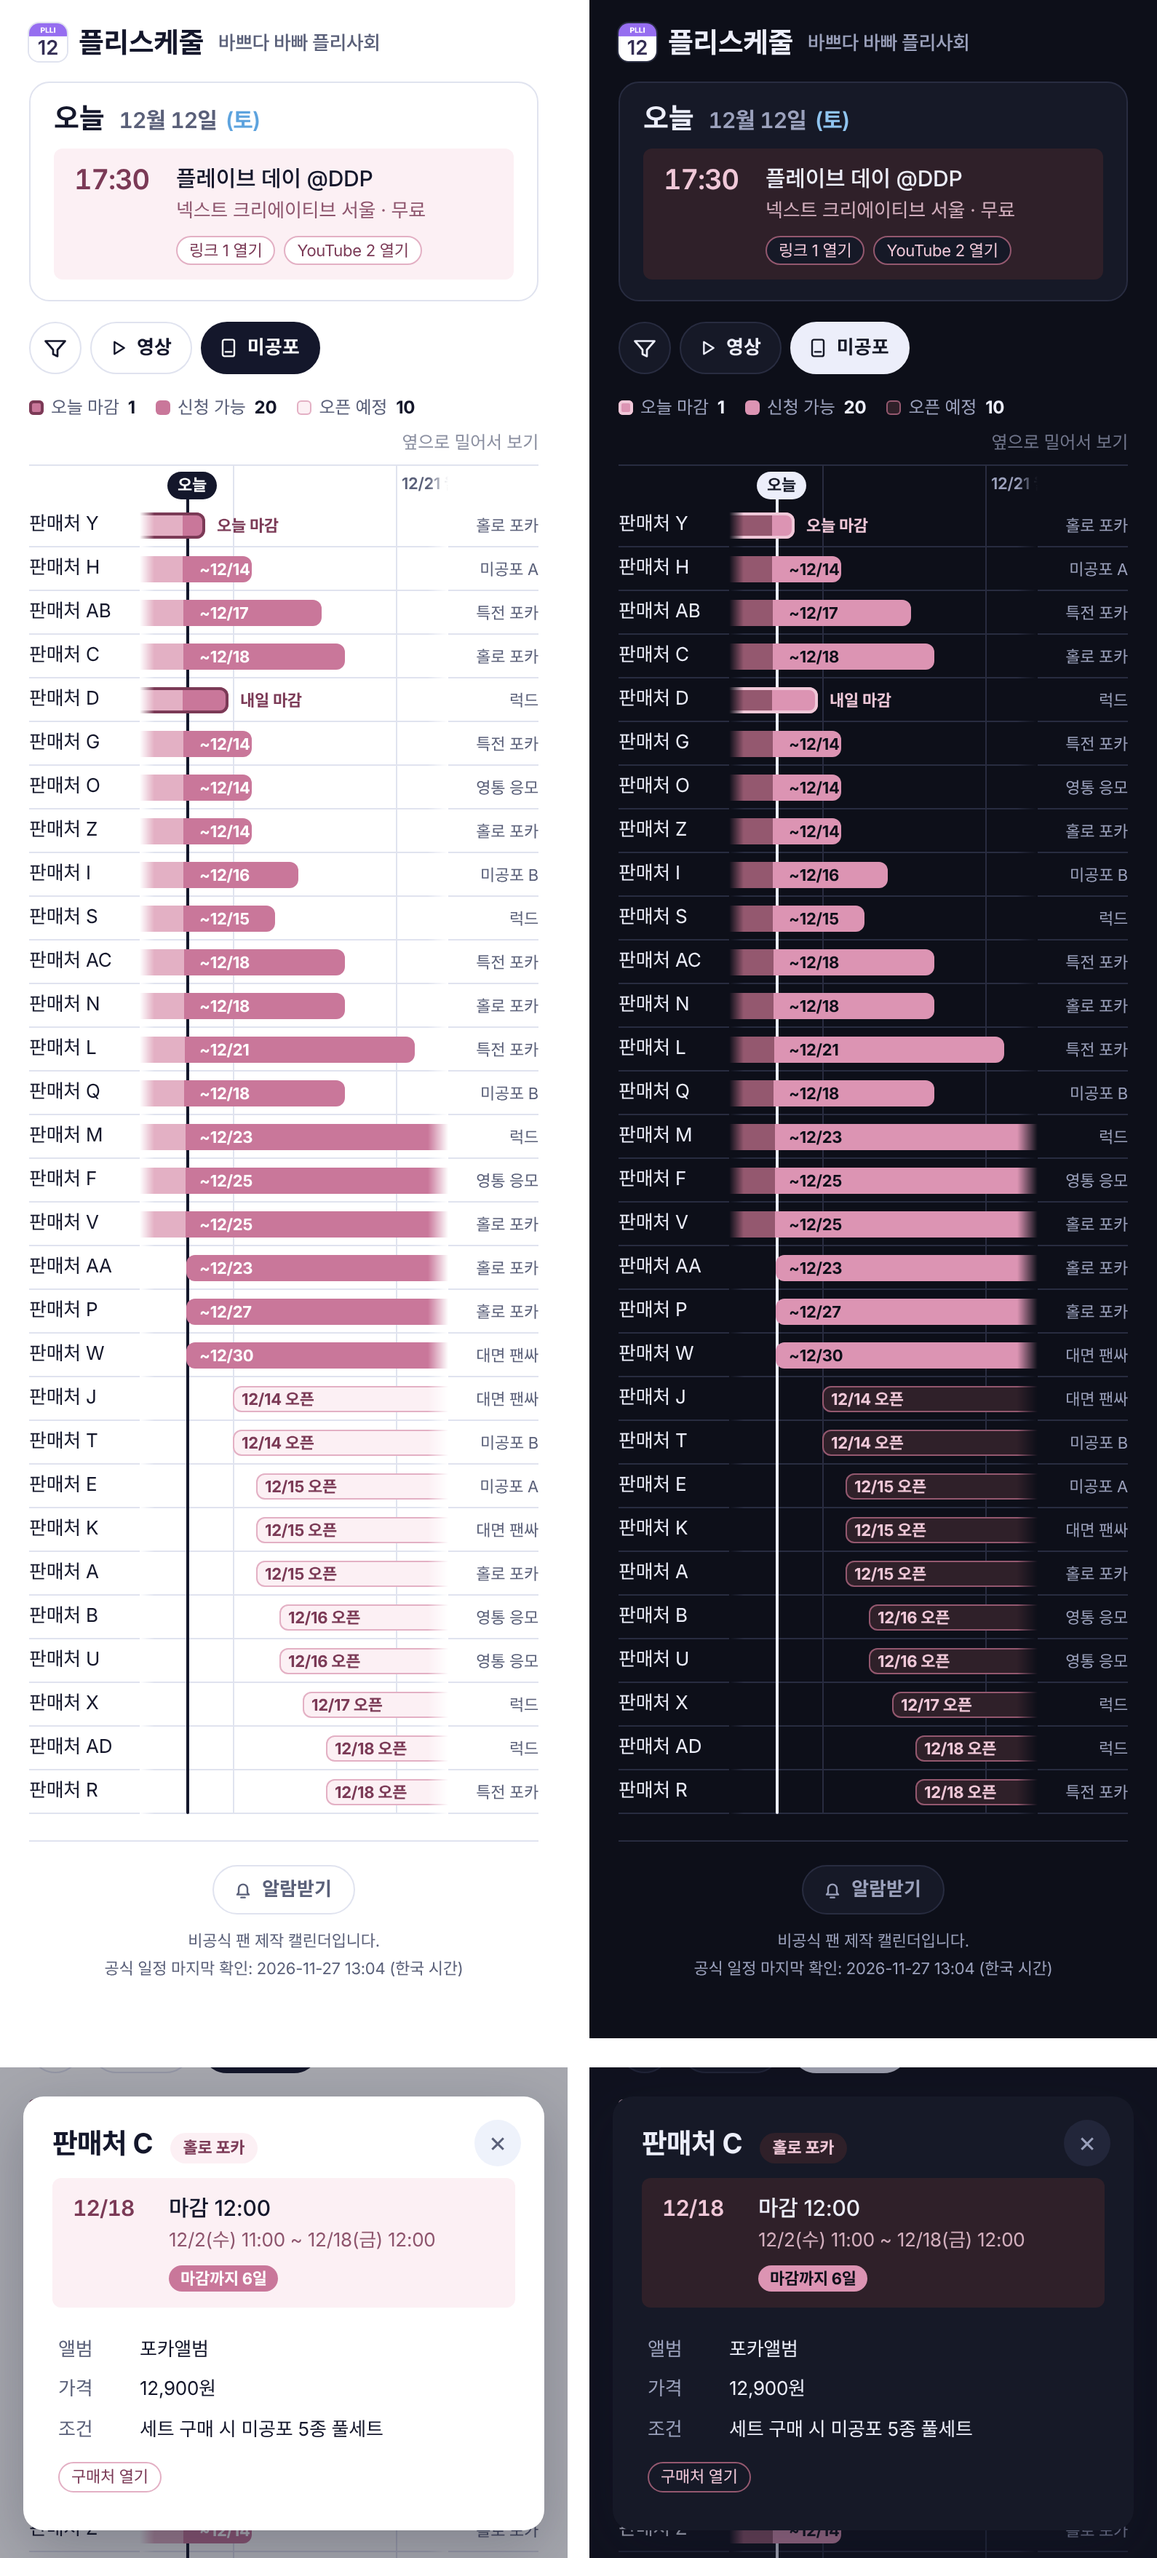
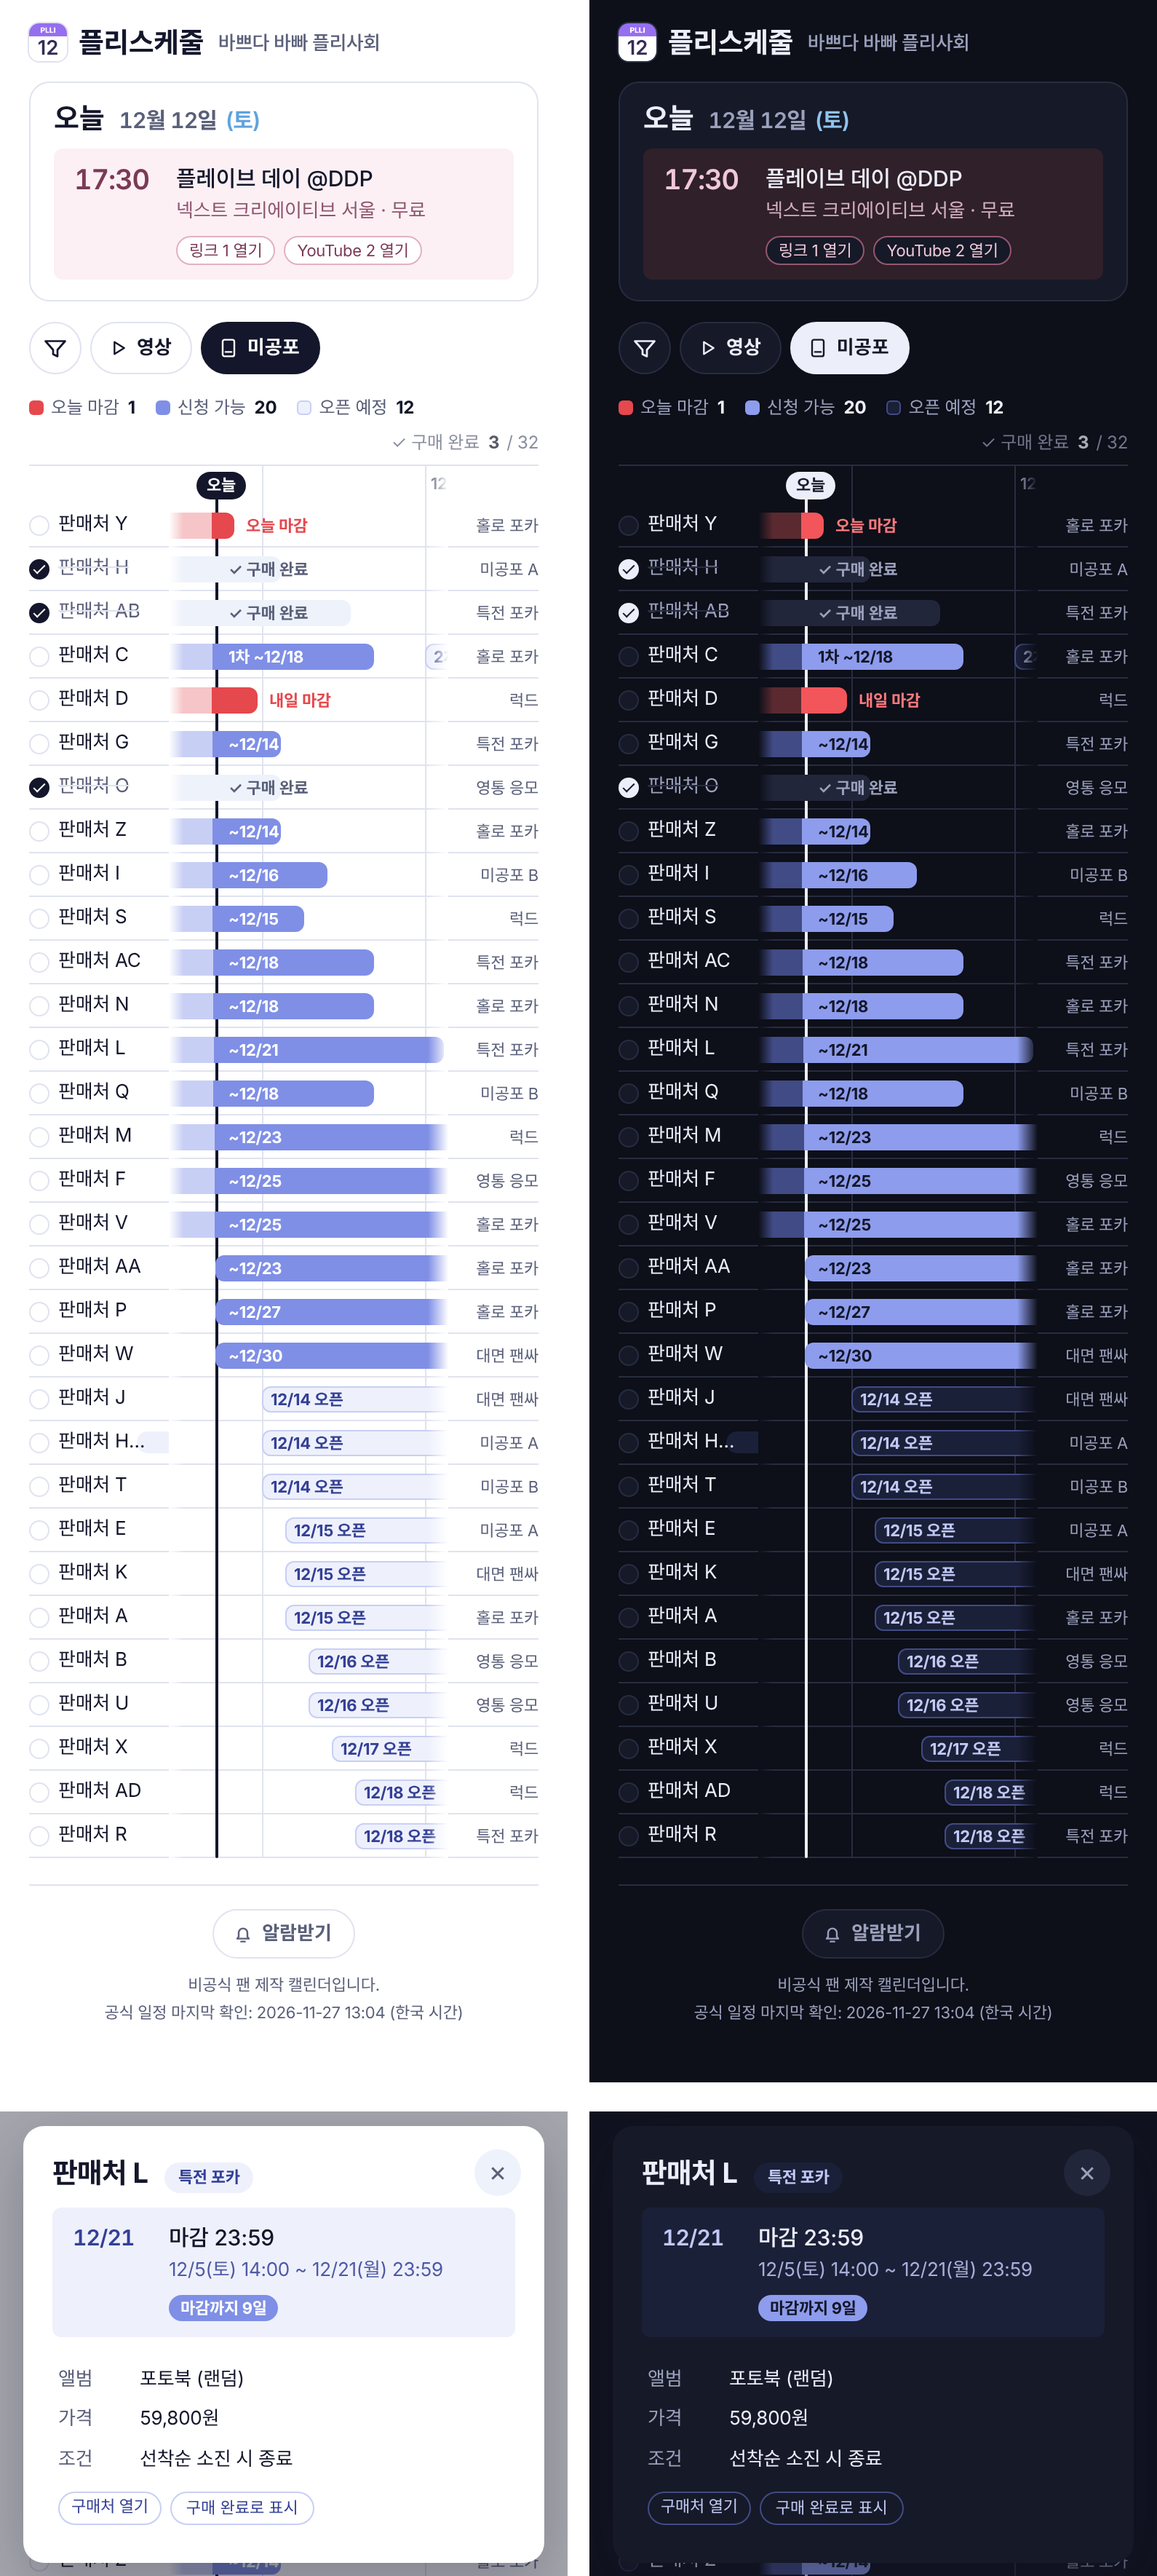
미공포 시안: 인디고 색으로 결정 (drafts/)
Claude-Session: https://claude.ai/code/session_01Epb79aCCecSjd6zD5n6eH4

diff --git a/drafts/mipo-v6-inject.js b/drafts/mipo-v6-inject.js
@@ -2,7 +2,7 @@
 (function(){
 var D=[{"name": "판매처 A", "type": "홀로 포카", "s": 15, "e": 33, "album": "디지팩 세트", "price": 62000, "rule": "세트 구매 시 미공포 5종 풀세트", "st": "14:00", "et": "12:00"}, {"name": "판매처 B", "type": "영통 응모", "s": 16, "e": 28, "album": "디지팩 세트", "price": 18900, "rule": "세트 구매 시 미공포 5종 풀세트", "st": "11:00", "et": "12:00"}, {"name": "판매처 C", "type": "홀로 포카", "s": 2, "e": 18, "album": "포카앨범", "price": 12900, "rule": "세트 구매 시 미공포 5종 풀세트", "st": "11:00", "et": "12:00"}, {"name": "판매처 D", "type": "럭드", "s": 3, "e": 13, "album": "포토북 세트", "price": 17500, "rule": "앨범 1장당 미공포 1장 (랜덤)", "st": "20:00", "et": "18:00"}, {"name": "판매처 E", "type": "미공포 A", "s": 15, "e": 28, "album": "디지팩 (랜덤)", "price": 59800, "rule": "앨범 1장당 미공포 1장 (랜덤)", "st": "11:00", "et": "18:00"}, {"name": "판매처 F", "type": "영통 응모", "s": 9, "e": 25, "album": "디지팩 (랜덤)", "price": 18900, "rule": "세트 구매 시 미공포 5종 풀세트", "st": "18:00", "et": "23:59"}, {"name": "판매처 G", "type": "특전 포카", "s": 3, "e": 14, "album": "포토북 (랜덤)", "price": 18900, "rule": "선착순 소진 시 종료", "st": "11:00", "et": "23:59"}, {"name": "판매처 H", "type": "미공포 A", "s": 1, "e": 14, "album": "포토북 (랜덤)", "price": 59800, "rule": "선착순 소진 시 종료", "st": "20:00", "et": "18:00"}, {"name": "판매처 I", "type": "미공포 B", "s": 3, "e": 16, "album": "디지팩 (랜덤)", "price": 16800, "rule": "1장당 응모권 1장", "st": "18:00", "et": "23:59"}, {"name": "판매처 J", "type": "대면 팬싸", "s": 14, "e": 25, "album": "포토북 세트", "price": 12900, "rule": "앨범 1장당 미공포 1장 (랜덤)", "st": "11:00", "et": "23:59"}, {"name": "판매처 K", "type": "대면 팬싸", "s": 15, "e": 32, "album": "포카앨범", "price": 17500, "rule": "선착순 소진 시 종료", "st": "14:00", "et": "12:00"}, {"name": "판매처 L", "type": "특전 포카", "s": 5, "e": 21, "album": "포토북 (랜덤)", "price": 59800, "rule": "선착순 소진 시 종료", "st": "14:00", "et": "23:59"}, {"name": "판매처 M", "type": "럭드", "s": 9, "e": 23, "album": "포토북 세트", "price": 17500, "rule": "선착순 소진 시 종료", "st": "11:00", "et": "23:59"}, {"name": "판매처 N", "type": "홀로 포카", "s": 5, "e": 18, "album": "디지팩 (랜덤)", "price": 16800, "rule": "1장당 응모권 1장", "st": "18:00", "et": "18:00"}, {"name": "판매처 O", "type": "영통 응모", "s": 3, "e": 14, "album": "포토북 세트", "price": 62000, "rule": "세트 구매 시 미공포 5종 풀세트", "st": "11:00", "et": "12:00"}, {"name": "판매처 P", "type": "홀로 포카", "s": 12, "e": 27, "album": "포토북 세트", "price": 62000, "rule": "선착순 소진 시 종료", "st": "14:00", "et": "18:00"}, {"name": "판매처 Q", "type": "미공포 B", "s": 6, "e": 18, "album": "포토북 세트", "price": 62000, "rule": "세트 구매 시 미공포 5종 풀세트", "st": "14:00", "et": "23:59"}, {"name": "판매처 R", "type": "특전 포카", "s": 18, "e": 31, "album": "디지팩 세트", "price": 62000, "rule": "앨범 1장당 미공포 1장 (랜덤)", "st": "20:00", "et": "23:59"}, {"name": "판매처 S", "type": "럭드", "s": 4, "e": 15, "album": "포카앨범", "price": 18900, "rule": "세트 구매 시 미공포 5종 풀세트", "st": "20:00", "et": "18:00"}, {"name": "판매처 T", "type": "미공포 B", "s": 14, "e": 31, "album": "포카앨범", "price": 17500, "rule": "앨범 1장당 미공포 1장 (랜덤)", "st": "14:00", "et": "23:59"}, {"name": "판매처 U", "type": "영통 응모", "s": 16, "e": 34, "album": "디지팩 (랜덤)", "price": 17500, "rule": "세트 구매 시 미공포 5종 풀세트", "st": "11:00", "et": "23:59"}, {"name": "판매처 V", "type": "홀로 포카", "s": 9, "e": 25, "album": "포토북 세트", "price": 16800, "rule": "앨범 1장당 미공포 1장 (랜덤)", "st": "14:00", "et": "18:00"}, {"name": "판매처 W", "type": "대면 팬싸", "s": 12, "e": 30, "album": "포토북 (랜덤)", "price": 18900, "rule": "세트 구매 시 미공포 5종 풀세트", "st": "20:00", "et": "18:00"}, {"name": "판매처 X", "type": "럭드", "s": 17, "e": 29, "album": "포토북 (랜덤)", "price": 59800, "rule": "1장당 응모권 1장", "st": "18:00", "et": "23:59"}, {"name": "판매처 Y", "type": "홀로 포카", "s": 1, "e": 12, "album": "포토북 (랜덤)", "price": 12900, "rule": "1장당 응모권 1장", "st": "18:00", "et": "23:59"}, {"name": "판매처 Z", "type": "홀로 포카", "s": 3, "e": 14, "album": "포카앨범", "price": 18900, "rule": "앨범 1장당 미공포 1장 (랜덤)", "st": "14:00", "et": "18:00"}, {"name": "판매처 AA", "type": "홀로 포카", "s": 12, "e": 23, "album": "포토북 (랜덤)", "price": 59800, "rule": "앨범 1장당 미공포 1장 (랜덤)", "st": "20:00", "et": "12:00"}, {"name": "판매처 AB", "type": "특전 포카", "s": 1, "e": 17, "album": "포카앨범", "price": 16800, "rule": "앨범 1장당 미공포 1장 (랜덤)", "st": "11:00", "et": "23:59"}, {"name": "판매처 AC", "type": "특전 포카", "s": 4, "e": 18, "album": "디지팩 (랜덤)", "price": 59800, "rule": "선착순 소진 시 종료", "st": "20:00", "et": "18:00"}, {"name": "판매처 AD", "type": "럭드", "s": 18, "e": 29, "album": "디지팩 (랜덤)", "price": 62000, "rule": "앨범 1장당 미공포 1장 (랜덤)", "st": "20:00", "et": "23:59"}], TODAY=12, DAY=16, DOW=["일","월","화","수","목","금","토"];
 function dt(d){return new Date(2026,11,d)} function lab(d){var x=dt(d);return (x.getMonth()+1)+"/"+x.getDate()}
-var st=document.createElement('style');st.textContent="\n.vidbtn.mipo[aria-pressed=\"true\"]{background:var(--ink);border-color:var(--ink);color:var(--surface)}\n.mp{margin-top:4px}\n.mp .sum{display:flex;flex-wrap:wrap;gap:6px 14px;font-size:12px;color:var(--muted);margin:0 0 6px}\n.mp .sum span{display:inline-flex;align-items:center;gap:5px}\n.mp .sum i{width:10px;height:10px;border-radius:3px;display:inline-block}\n.mp .sum b{color:var(--ink);font-weight:700;margin-left:1px}\n.mp .sum .hint{margin-left:auto;color:var(--muted);opacity:.7}\n.mpw{display:grid;grid-template-columns:76px minmax(0,1fr) 62px;border-top:1px solid var(--line)}\n.mpc{padding-top:26px}\n.mpc div{height:30px;display:flex;align-items:center;font-size:13px;white-space:nowrap;overflow:hidden;text-overflow:ellipsis;border-bottom:1px solid var(--line);cursor:pointer}\n.mpc.ty div{justify-content:flex-end;font-size:11px;color:var(--muted)}\n.mps{overflow-x:auto;overflow-y:hidden;scrollbar-width:none;position:relative;-webkit-mask-image:linear-gradient(90deg,transparent 0,#000 10px,#000 calc(100% - 14px),transparent 100%);mask-image:linear-gradient(90deg,transparent 0,#000 10px,#000 calc(100% - 14px),transparent 100%)}\n.mps::-webkit-scrollbar{display:none}\n.mpi{position:relative}\n.mpa{height:26px;position:relative}\n.mpa span{position:absolute;bottom:6px;font-size:11px;font-weight:600;color:var(--muted);white-space:nowrap;padding-left:4px}\n.mpr{height:30px;position:relative;border-bottom:1px solid var(--line);cursor:pointer}\n.mpb{position:absolute;top:6px;height:18px;border-radius:6px;z-index:2}\n.mpb.on{background:linear-gradient(90deg,var(--f-bar) 0 var(--cut),var(--f) var(--cut) 100%)}\n.mpb.hot{background:linear-gradient(90deg,var(--f-bar) 0 var(--cut),var(--f) var(--cut) 100%);box-shadow:inset 0 0 0 2px var(--f-fg)}\n.mpb.soon{background:var(--f-bg);box-shadow:inset 0 0 0 1px var(--f-bar)}\n.mpb b{position:absolute;font-size:11px;font-weight:700;white-space:nowrap;padding-left:6px;line-height:18px}\n.mpb.on b,.mpb.hot b{color:var(--f-ink)}.mpb.soon b{color:var(--f-fg)}\n.mpk{position:absolute;top:0;bottom:0;width:1px;background:var(--line)}\n.mpt{position:absolute;top:4px;bottom:0;width:2px;background:var(--ink);z-index:1;border-radius:1px}\n.mpt b{position:absolute;top:0;left:-13px;font-size:11px;font-weight:700;color:var(--surface);background:var(--ink);border-radius:999px;padding:1px 7px;white-space:nowrap}\n.mp .more{margin-top:10px;font-size:12px;color:var(--muted)}\n.mptag{display:inline-block;margin-left:6px;font-size:11px;font-weight:700;color:var(--f-fg);background:var(--f-bg);border-radius:999px;padding:2px 9px;vertical-align:3px}\n.mpinfo{list-style:none;padding:12px 4px 2px}\n.mpinfo dl{display:grid;grid-template-columns:44px 1fr;gap:8px 12px;margin:0 0 12px;font-size:13px}\n.mpinfo dt{color:var(--muted)}\n.mpinfo dd{margin:0;color:var(--ink)}\n.mpv{margin-left:5px;font-size:10.5px;font-weight:700;color:var(--f-fg);background:var(--f-bg);border-radius:999px;padding:1px 6px}\n.mp,#daydlg{--f:#a592ec;--f-ink:#ffffff;--f-bg:#f4f1fd;--f-bar:#d6cdf7;--f-fg:#5a479f}\n@media (prefers-color-scheme:dark){.mp,#daydlg{--f:#a796e6;--f-ink:#17142a;--f-bg:#221d3a;--f-bar:#4f447f;--f-fg:#cbc0f2}}\n.mpw{grid-template-columns:96px minmax(0,1fr) 62px}\n.mpc div{gap:7px}\n.mpck{flex:0 0 auto;width:18px;height:18px;border-radius:50%;border:1.5px solid var(--line);background:var(--surface);padding:0;cursor:pointer;position:relative}\n.mpc .got .mpck{background:var(--f);border-color:var(--f)}\n.mpc .got .mpck::after{content:\"\";position:absolute;left:5px;top:2px;width:4px;height:8px;border:solid var(--f-ink);border-width:0 2px 2px 0;transform:rotate(45deg)}\n.mpnm{overflow:hidden;text-overflow:ellipsis}\n.mpc .got .mpnm{color:var(--muted)}\n.mpr.got .mpb{opacity:.35}\n.mpc.ty .got{opacity:.5}\n.mpbuy{font:inherit;font-size:11px;border:1px solid var(--f-bar);background:var(--surface);color:var(--f-fg);border-radius:999px;padding:2px 10px;cursor:pointer}\n.mpbuy.on{background:var(--f);border-color:var(--f);color:var(--f-ink);font-weight:700}\n.mp .sum .hint b{color:var(--ink)}\n.mpdd{display:inline-block;font-size:11px;font-weight:700;color:var(--f-ink);background:var(--f);border-radius:999px;padding:1px 8px;margin-top:6px}\n";document.head.appendChild(st);
+var st=document.createElement('style');st.textContent="\n.vidbtn.mipo[aria-pressed=\"true\"]{background:var(--ink);border-color:var(--ink);color:var(--surface)}\n.mp{margin-top:4px}\n.mp .sum{display:flex;flex-wrap:wrap;gap:6px 14px;font-size:12px;color:var(--muted);margin:0 0 6px}\n.mp .sum span{display:inline-flex;align-items:center;gap:5px}\n.mp .sum i{width:10px;height:10px;border-radius:3px;display:inline-block}\n.mp .sum b{color:var(--ink);font-weight:700;margin-left:1px}\n.mp .sum .hint{margin-left:auto;color:var(--muted);opacity:.7}\n.mpw{display:grid;grid-template-columns:76px minmax(0,1fr) 62px;border-top:1px solid var(--line)}\n.mpc{padding-top:26px}\n.mpc div{height:30px;display:flex;align-items:center;font-size:13px;white-space:nowrap;overflow:hidden;text-overflow:ellipsis;border-bottom:1px solid var(--line);cursor:pointer}\n.mpc.ty div{justify-content:flex-end;font-size:11px;color:var(--muted)}\n.mps{overflow-x:auto;overflow-y:hidden;scrollbar-width:none;position:relative;-webkit-mask-image:linear-gradient(90deg,transparent 0,#000 10px,#000 calc(100% - 14px),transparent 100%);mask-image:linear-gradient(90deg,transparent 0,#000 10px,#000 calc(100% - 14px),transparent 100%)}\n.mps::-webkit-scrollbar{display:none}\n.mpi{position:relative}\n.mpa{height:26px;position:relative}\n.mpa span{position:absolute;bottom:6px;font-size:11px;font-weight:600;color:var(--muted);white-space:nowrap;padding-left:4px}\n.mpr{height:30px;position:relative;border-bottom:1px solid var(--line);cursor:pointer}\n.mpb{position:absolute;top:6px;height:18px;border-radius:6px;z-index:2}\n.mpb.on{background:linear-gradient(90deg,var(--f-bar) 0 var(--cut),var(--f) var(--cut) 100%)}\n.mpb.hot{background:linear-gradient(90deg,var(--f-bar) 0 var(--cut),var(--f) var(--cut) 100%);box-shadow:inset 0 0 0 2px var(--f-fg)}\n.mpb.soon{background:var(--f-bg);box-shadow:inset 0 0 0 1px var(--f-bar)}\n.mpb b{position:absolute;font-size:11px;font-weight:700;white-space:nowrap;padding-left:6px;line-height:18px}\n.mpb.on b,.mpb.hot b{color:var(--f-ink)}.mpb.soon b{color:var(--f-fg)}\n.mpk{position:absolute;top:0;bottom:0;width:1px;background:var(--line)}\n.mpt{position:absolute;top:4px;bottom:0;width:2px;background:var(--ink);z-index:1;border-radius:1px}\n.mpt b{position:absolute;top:0;left:-13px;font-size:11px;font-weight:700;color:var(--surface);background:var(--ink);border-radius:999px;padding:1px 7px;white-space:nowrap}\n.mp .more{margin-top:10px;font-size:12px;color:var(--muted)}\n.mptag{display:inline-block;margin-left:6px;font-size:11px;font-weight:700;color:var(--f-fg);background:var(--f-bg);border-radius:999px;padding:2px 9px;vertical-align:3px}\n.mpinfo{list-style:none;padding:12px 4px 2px}\n.mpinfo dl{display:grid;grid-template-columns:44px 1fr;gap:8px 12px;margin:0 0 12px;font-size:13px}\n.mpinfo dt{color:var(--muted)}\n.mpinfo dd{margin:0;color:var(--ink)}\n.mpv{margin-left:5px;font-size:10.5px;font-weight:700;color:var(--f-fg);background:var(--f-bg);border-radius:999px;padding:1px 6px}\n.mp,#daydlg{--f:#7f8fe6;--f-ink:#ffffff;--f-bg:#eef1fc;--f-bar:#c8cff5;--f-fg:#344096}\n@media (prefers-color-scheme:dark){.mp,#daydlg{--f:#8d9cec;--f-ink:#131629;--f-bg:#1b2039;--f-bar:#414b85;--f-fg:#c1c9f5}}\n.mpw{grid-template-columns:96px minmax(0,1fr) 62px}\n.mpc div{gap:7px}\n.mpck{flex:0 0 auto;width:18px;height:18px;border-radius:50%;border:1.5px solid var(--line);background:var(--surface);padding:0;cursor:pointer;position:relative}\n.mpc .got .mpck{background:var(--f);border-color:var(--f)}\n.mpc .got .mpck::after{content:\"\";position:absolute;left:5px;top:2px;width:4px;height:8px;border:solid var(--f-ink);border-width:0 2px 2px 0;transform:rotate(45deg)}\n.mpnm{overflow:hidden;text-overflow:ellipsis}\n.mpc .got .mpnm{color:var(--muted)}\n.mpr.got .mpb{opacity:.35}\n.mpc.ty .got{opacity:.5}\n.mpbuy{font:inherit;font-size:11px;border:1px solid var(--f-bar);background:var(--surface);color:var(--f-fg);border-radius:999px;padding:2px 10px;cursor:pointer}\n.mpbuy.on{background:var(--f);border-color:var(--f);color:var(--f-ink);font-weight:700}\n.mp .sum .hint b{color:var(--ink)}\n.mpdd{display:inline-block;font-size:11px;font-weight:700;color:var(--f-ink);background:var(--f);border-radius:999px;padding:1px 8px;margin-top:6px}\n";document.head.appendChild(st);
 var vb=document.getElementById('vidbtn'); var mb=vb.cloneNode(true); mb.id='mipobtn'; mb.classList.add('mipo'); mb.setAttribute('aria-pressed','true');
 mb.innerHTML='<svg class="fi" viewBox="0 0 24 24" aria-hidden="true"><rect x="6" y="3.5" width="12" height="17" rx="2"/><path d="M9 16h6"/></svg><span>미공포</span>'; vb.after(mb);
 var bar=document.querySelector('.bar'); bar.style.display='none';

diff --git a/drafts/README.md b/drafts/README.md
@@ -30,7 +30,8 @@
 - 요약 줄은 범례와 같은 모양(작은 네모 + 글자 + 개수). 오늘 표시는 달력의 '오늘' 검정 동그라미처럼 검정 알약.
 - 줄 구분선은 달력 주 구분선과 같은 색. 막대 모서리 6px(달력 칩과 같게).
 - 상세 팝업은 달력 날짜 팝업 그대로: 큰 제목 + 종류 태그 / 분홍 일정 카드(마감일·시각·기간·남은 날) / 앨범·가격·조건 / 링크 버튼.
-- 색: 퍼플 A-1로 결정 (라이트 #a592ec + 흰 글자 / 다크 #a796e6). 막대 안 글자는 진한 색 쓰지 않기(가독성).
+- 색: 인디고로 결정 (라이트 #7f8fe6 + 흰 글자 / 다크 #8d9cec). 퍼플은 빨강(마감 임박)과 안 어울려서 바꿈. 막대 안 글자는 진한 색 쓰지 않기(가독성).
+  - 레이아웃이 달력과 완전히 달라서 플레이브 파랑과 계열이 비슷해도 괜찮다고 판단.
 - 같은 판매처 1차·2차: 한 줄에 막대 여러 개, 막대 안에 `1차 ~12/18`, `2차 12/21 오픈`. 팝업 태그에 `홀로 포카 · 2차`.
 - 공구처럼 다른 판매 방식: 줄을 따로 두고 이름 옆에 `공구` 작은 태그. 팝업 제목 `판매처 H 공구`.
 - 남은 과제: 이름이 길면 `공구` 태그가 잘림 → 실제 판매처 이름 길이 보고 이름 칸 폭 정하기.
